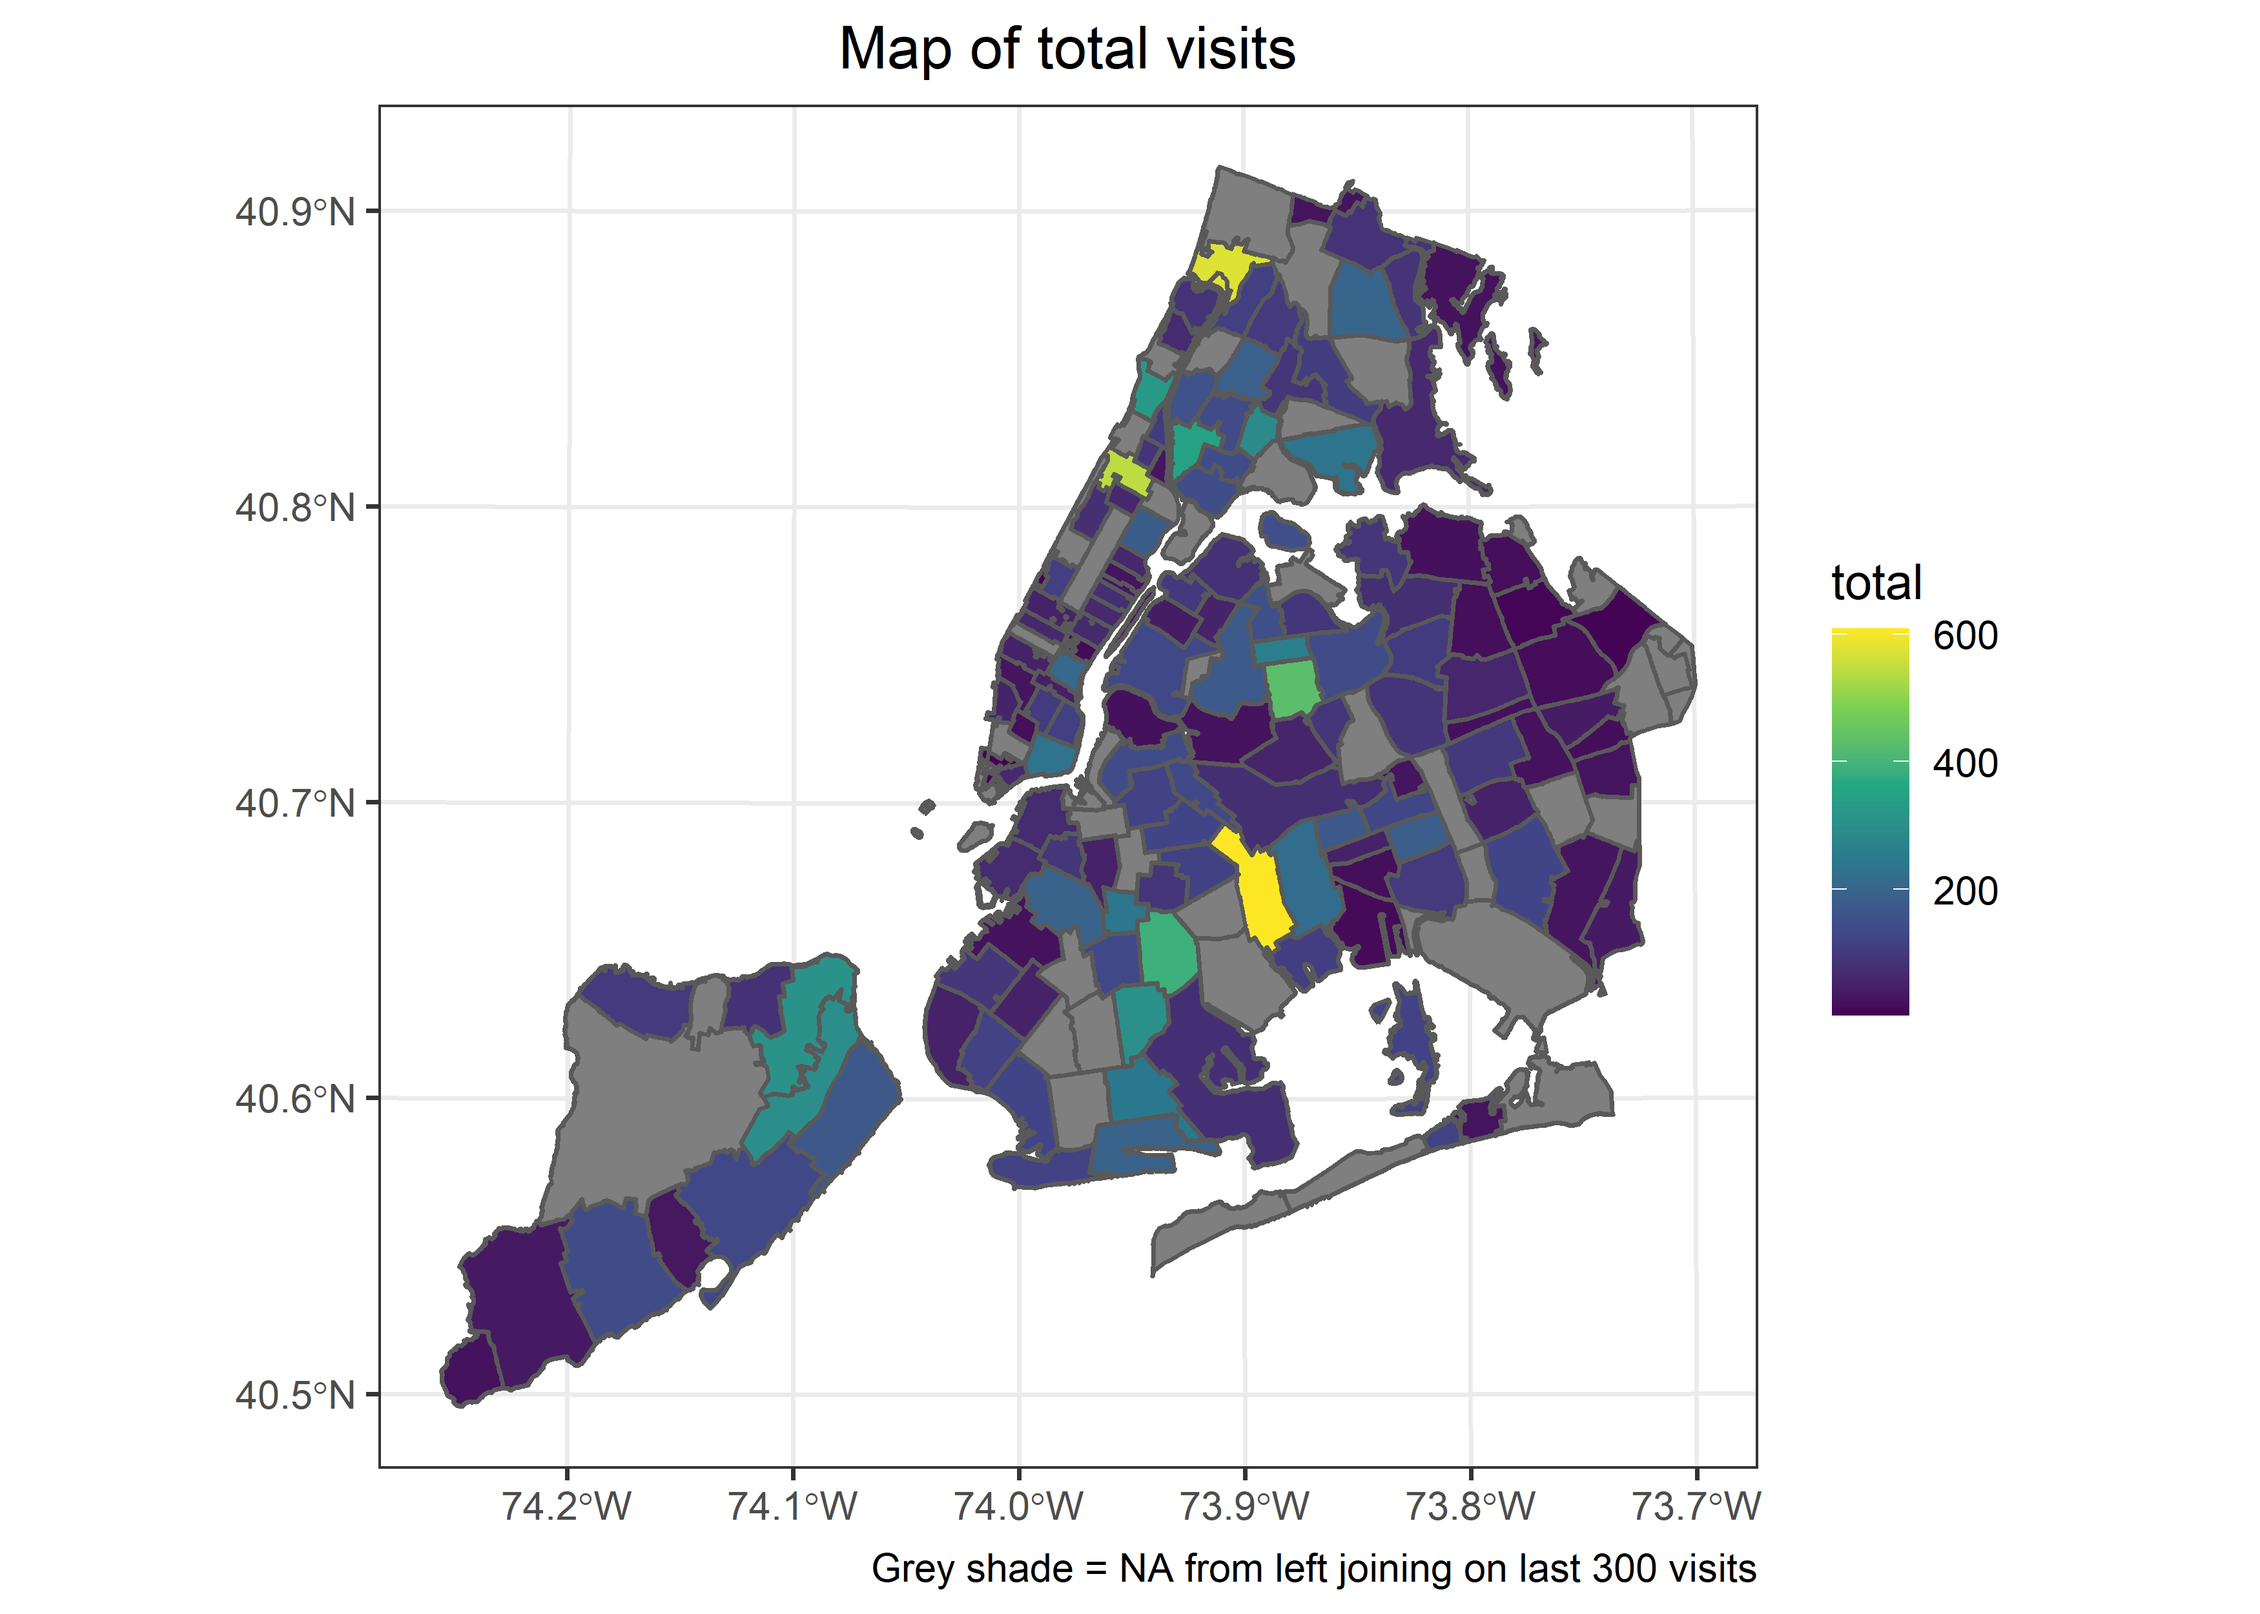
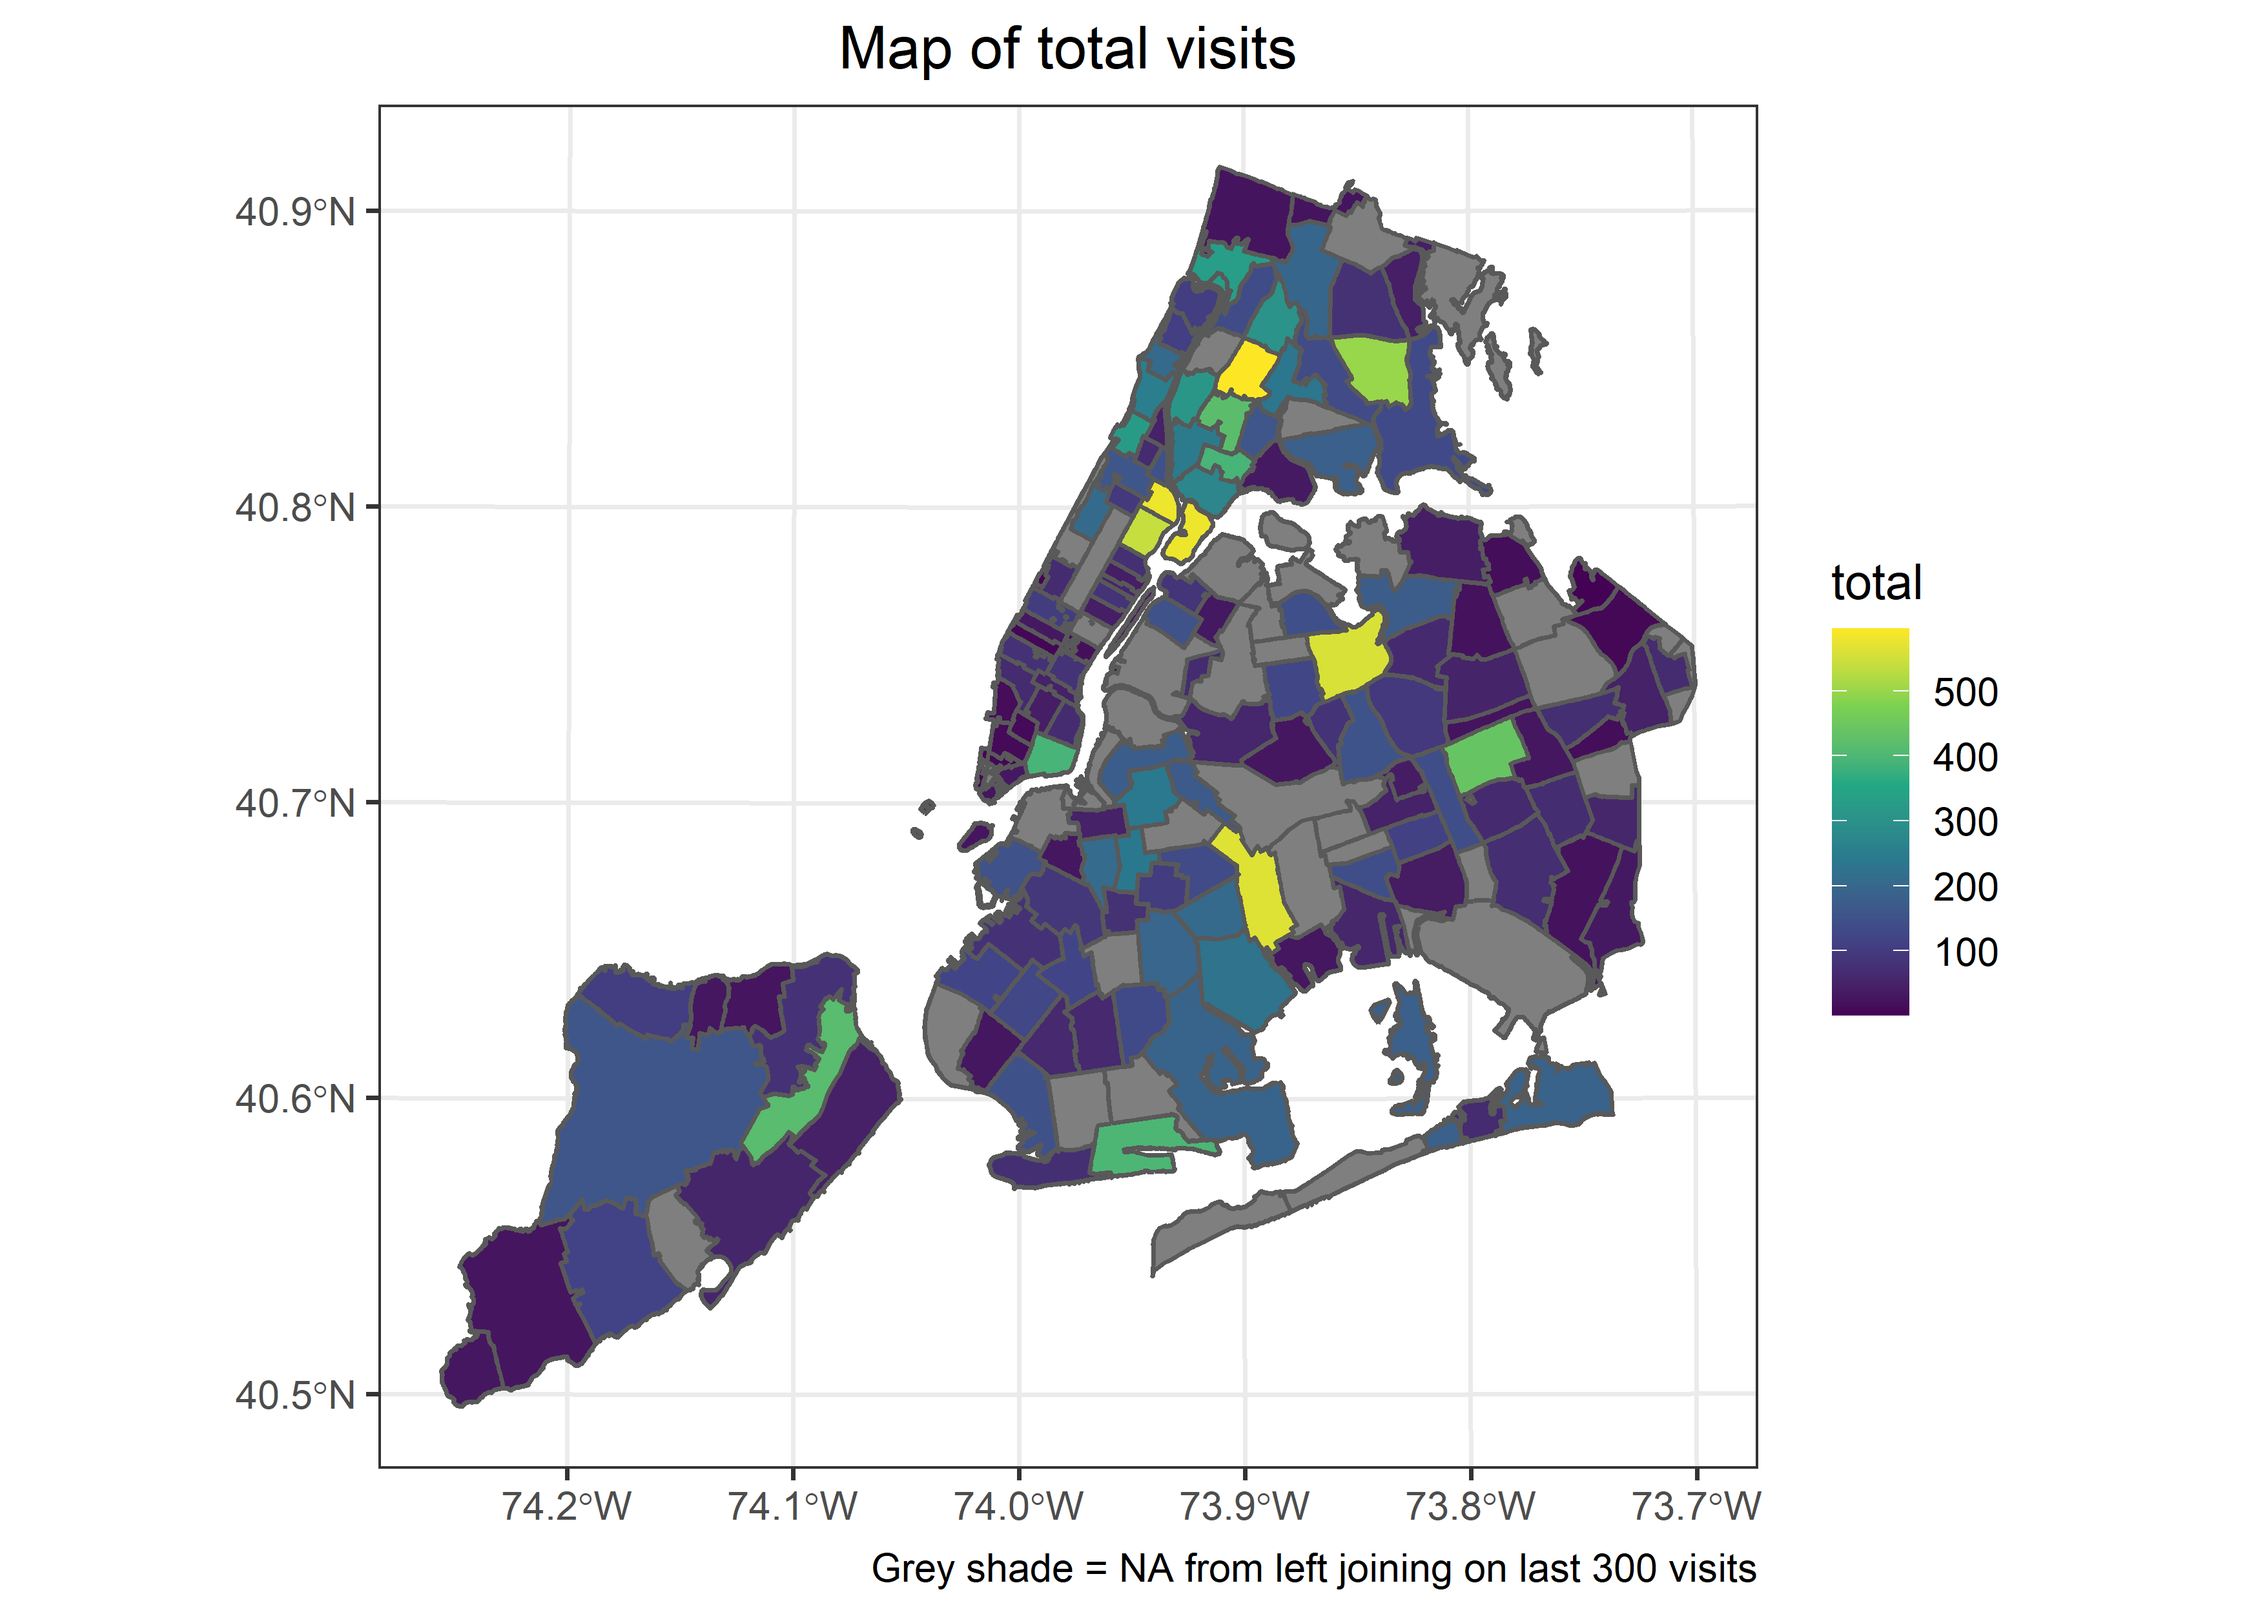
TOC NYC emergency visits

diff --git a/NYC Emergency Visits/NYC-Emergency-Visits.md b/NYC Emergency Visits/NYC-Emergency-Visits.md
@@ -3,6 +3,34 @@ NYC Emergency Visits
 Matthew
 5/19/2022
 
+-   <a href="#read-data" id="toc-read-data">Read Data</a>
+-   <a href="#part-1" id="toc-part-1">Part 1</a>
+    -   <a href="#alter-date-column-and-remove-extract_date"
+        id="toc-alter-date-column-and-remove-extract_date">Alter date column and
+        remove ‘extract_date’</a>
+    -   <a href="#last-300-visits" id="toc-last-300-visits">Last 300 Visits</a>
+    -   <a href="#convert-appropriate-columns-to-numeric"
+        id="toc-convert-appropriate-columns-to-numeric">Convert appropriate
+        columns to numeric</a>
+    -   <a href="#number-of-visits-per-zip-code"
+        id="toc-number-of-visits-per-zip-code">Number of visits per zip code</a>
+-   <a href="#part-2" id="toc-part-2">Part 2</a>
+    -   <a href="#plot-empty-map" id="toc-plot-empty-map">Plot empty map</a>
+-   <a href="#part-3" id="toc-part-3">Part 3</a>
+    -   <a href="#join-data" id="toc-join-data">Join data</a>
+    -   <a href="#colored-map-by-visits" id="toc-colored-map-by-visits">Colored
+        Map by Visits</a>
+-   <a href="#part-4" id="toc-part-4">Part 4</a>
+    -   <a href="#census-data" id="toc-census-data">Census Data</a>
+    -   <a href="#join-population-data-with-emergency-visits"
+        id="toc-join-population-data-with-emergency-visits">Join population data
+        with emergency visits</a>
+    -   <a href="#visits-per-inhabitant-by-zip-code"
+        id="toc-visits-per-inhabitant-by-zip-code">Visits per inhabitant by zip
+        code</a>
+-   <a href="#part-5" id="toc-part-5">Part 5</a>
+    -   <a href="#poverty-dat" id="toc-poverty-dat">Poverty Dat</a>
+
 # Read Data
 
 ``` r
@@ -12,7 +40,7 @@ fromJSON("https://data.cityofnewyork.us/resource/2nwg-uqyg.json?$limit=3000")
 
 # Part 1
 
-## Alter date column and remove ‘extract\_date’
+## Alter date column and remove ‘extract_date’
 
 ``` r
 emergencyVisits <- emergencyVisits %>% 
@@ -45,20 +73,20 @@ last300 %>%
   arrange(-total)
 ```
 
-    ## # A tibble: 141 x 2
+    ## # A tibble: 146 x 2
     ##    ZIPCODE total
     ##    <chr>   <dbl>
-    ##  1 11207     608
-    ##  2 10027     544
-    ##  3 11373     431
-    ##  4 11203     389
-    ##  5 10451     352
-    ##  6 10032     330
-    ##  7 10301     312
-    ##  8 11210     303
-    ##  9 10304     301
-    ## 10 10459     291
-    ## # ... with 131 more rows
+    ##  1 10457     595
+    ##  2 11207     564
+    ##  3 11368     558
+    ##  4 10029     541
+    ##  5 10461     500
+    ##  6 11432     440
+    ##  7 10456     419
+    ##  8 10304     415
+    ##  9 11235     399
+    ## 10 10002     393
+    ## # ... with 136 more rows
 
 # Part 2
 
